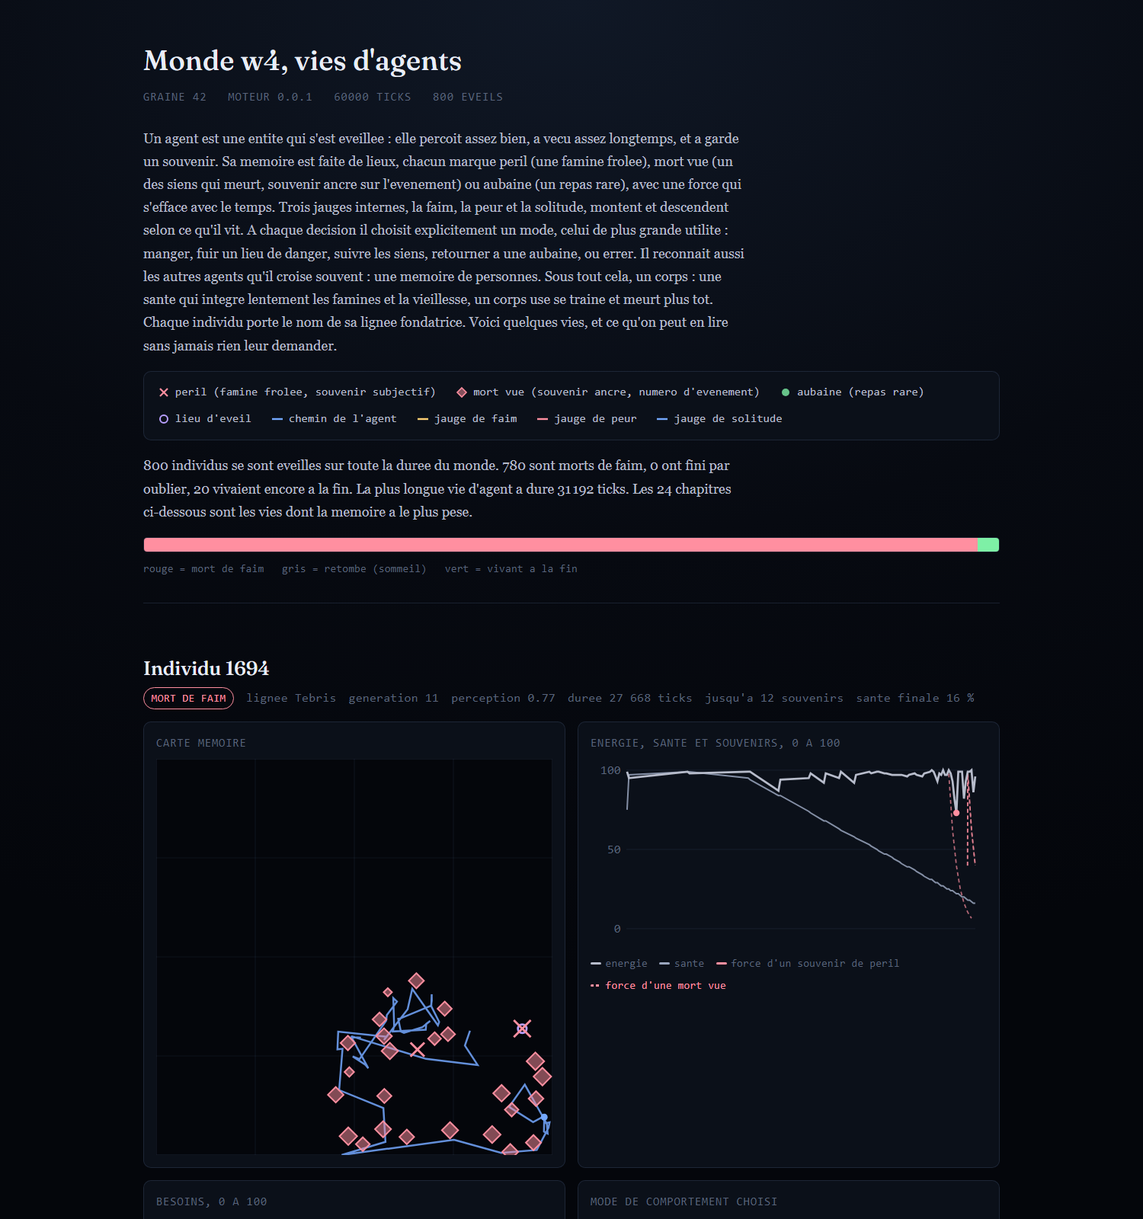
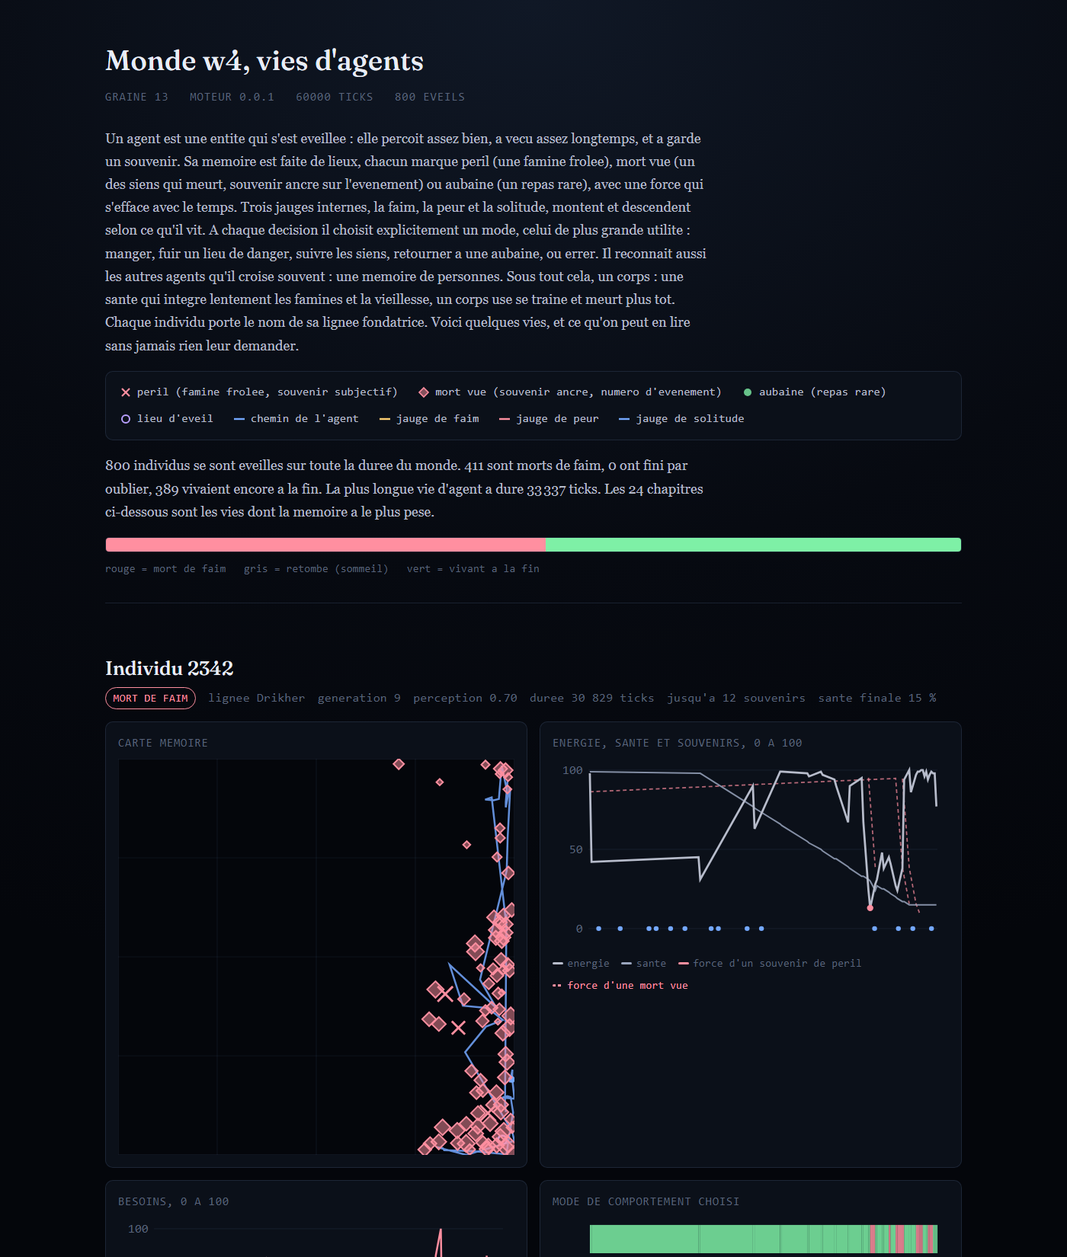
Consolidation : journal en pyramide, templates et captures a jour
Journal en pyramide (serve). events.jsonl grossissait sans fin (~0,7 Mo pour
1000 ticks au plateau saisonnier, des Go par jour sur un direct). Desormais
WorldDir::compact_journal, appele dans la boucle serve, ne garde en detail
complet que les persistence.journal_keep_ticks (120 000) derniers ticks ; au-dela
seuls les evenements de chapitre (EventKind::is_chapter : genese, espece,
extinction de lignee, effondrement, palier, fusion, basculement) roulent dans
events.chronicle.jsonl (append-only, ~170 Ko pour 230 000 ticks). Hysteresis pour
ne pas reecrire le fichier a chaque tour ; jamais compacte au-dela du plus vieil
instantane garde (la reprise en depend). Le moteur ne relit jamais le journal, le
monde reste identique : replay OK, reprise OK apres compaction. journal_keep_ticks
= 0 desactive. Test compact_journal_keeps_window_and_chronicles_the_rest.

Nouveau EventKind::is_chapter (sous-ensemble etroit des evenements saillants) ;
config.persistence.event_log_partition_ticks, inutilise, laisse tel quel.

Templates a jour pour le 10e trait (heat_tol) : series.html (« dix traits »,
courbe et legende « tol. chaleur »), view.html (barre + infobulle), index.html.

Captures docs/images regenerees depuis les mondes v18 (grille 192, saisons) :
stream (le direct en cours, an 28, le graphe de population en dents de scie),
gallery, series, lives, world-cover (w4 graine 13, 13 especes). view-inspect
laissee (demande une interaction).
[…]

diff --git a/crates/genesis-cli/src/series_template.html b/crates/genesis-cli/src/series_template.html
@@ -54,11 +54,12 @@
 
 <div class="headline" id="headline"></div>
 
-<p>Chaque genome a neuf traits, tous dans l'intervalle 0 a 1 : sept de corps (metabolisme,
-vitesse, perception, efficacite, fertilite, longevite, cohesion) et deux de personnalite
-(prudence, curiosite, herites depuis 0.0.3). La selection naturelle est le seul moteur :
-elle vient du bilan d'energie et de la mort differentielle, personne ne la declare.
-Ci-dessous, comment la population a derive sur toute la duree du monde.</p>
+<p>Chaque genome a dix traits, tous dans l'intervalle 0 a 1 : sept de corps (metabolisme,
+vitesse, perception, efficacite, fertilite, longevite, cohesion), deux de personnalite
+(prudence, curiosite, herites depuis 0.0.3) et un d'adaptation thermique (tolerance a la
+chaleur, 0.0.4). La selection naturelle est le seul moteur : elle vient du bilan d'energie et
+de la mort differentielle, personne ne la declare. Ci-dessous, comment la population a derive
+sur toute la duree du monde.</p>
 
 <h2>Les traits dans le temps</h2>
 <figure><svg id="c-traits" class="chart" viewBox="0 0 860 260" role="img" aria-label="moyenne des traits par generation"></svg>
@@ -88,8 +89,8 @@ __COMMON_JS__
 const META = JSON.parse(document.getElementById('ser-meta').textContent);
 const S = JSON.parse(document.getElementById('ser-series').textContent);
 
-const TRAITS = ['metabolisme', 'vitesse', 'perception', 'efficacite', 'fertilite', 'longevite', 'cohesion', 'prudence', 'curiosite'];
-const COL = ['#ff9a5a', '#5ab6ff', '#6ee89a', '#b79cff', '#ffce5a', '#9aa6be', '#4fe8e0', '#ff8fa0', '#8fd0ff'];
+const TRAITS = ['metabolisme', 'vitesse', 'perception', 'efficacite', 'fertilite', 'longevite', 'cohesion', 'prudence', 'curiosite', 'tol. chaleur'];
+const COL = ['#ff9a5a', '#5ab6ff', '#6ee89a', '#b79cff', '#ffce5a', '#9aa6be', '#4fe8e0', '#ff8fa0', '#8fd0ff', '#ffb648'];
 
 // -- Trace un jeu de courbes dans un <svg> deja dimensionne par son viewBox.
 function draw(svgId, opt) {

diff --git a/crates/genesis-cli/src/view_template.html b/crates/genesis-cli/src/view_template.html
@@ -445,6 +445,7 @@ const TRAITS = [
   ['cohesion', "Tendance a s'agreger avec ses proches parents et a former des colonies."],
   ['prudence', "Personnalite heritee. Haut = un agent evite plus fort les lieux ou il a frole la mort."],
   ['curiosite', "Personnalite heritee. Haut = un agent est plus attire par ses souvenirs d'abondance."],
+  ['tol. chaleur', "Adaptation thermique heritee. Bas = optimum metabolique vers le froid, haut = vers le chaud."],
 ];
 
 function set(id, val) { const el = document.getElementById(id); if (el) el.textContent = val; }

diff --git a/crates/genesis-cli/src/index_template.html b/crates/genesis-cli/src/index_template.html
@@ -123,7 +123,7 @@
     </a>
     <a class="door evo" href="series.html">
       <div class="dn"><span class="dot"></span>L'evolution</div>
-      <p>Ce que la selection a deplace : la derive des neuf traits, la distribution qui s'elargit ou se scinde, la population et la diversite.</p>
+      <p>Ce que la selection a deplace : la derive des dix traits, la distribution qui s'elargit ou se scinde, la population et la diversite.</p>
       <div class="go">ouvrir les courbes &rarr;</div>
     </a>
     <a class="door lives" href="lives.html">

diff --git a/crates/genesis-core/src/persist.rs b/crates/genesis-core/src/persist.rs
@@ -145,4 +145,179 @@ impl WorldDir {
         }
         Ok(())
     }
+
+    /// Journal en pyramide (`serve`) : `events.jsonl` ne garde en detail que les evenements
+    /// au tick `>= keep_from`. Les evenements de chapitre (`EventKind::is_chapter`) plus vieux
+    /// sont deverses dans `events.chronicle.jsonl` (append-only, grossit tres lentement), le
+    /// reste est laisse tomber. Le moteur ne relit jamais le journal : le monde reste
+    /// identique.
+    ///
+    /// La compaction ne se declenche que si la plus vieille ligne est anterieure a
+    /// `trigger_below` (hysteresis : on ne reecrit pas 100 Mo a chaque tour de boucle pour
+    /// grignoter quelques centaines de ticks). Bon marche sinon (on ne lit que la premiere
+    /// ligne). Renvoie le nombre de lignes retirees de `events.jsonl`.
+    pub fn compact_journal(&self, keep_from: u64, trigger_below: u64) -> std::io::Result<u64> {
+        use std::io::{BufRead, BufReader};
+
+        // Filtre bon marche : on ne parse l'evenement complet que si la saillance vaut la
+        // peine (les chapitres sont tous a 180+). Le gros du journal est a 2-3.
+        #[derive(Deserialize)]
+        struct Line {
+            tick: u64,
+            #[serde(default)]
+            salience: u8,
+        }
+        const CHAPTER_MIN_SALIENCE: u8 = 180;
+
+        let path = self.root.join("events.jsonl");
+        let Ok(file) = std::fs::File::open(&path) else {
+            return Ok(0);
+        };
+        let mut reader = BufReader::new(file);
+
+        // Coup d'oeil sur la premiere ligne : si elle est assez recente, rien a faire.
+        let mut first = String::new();
+        if reader.read_line(&mut first)? == 0 {
+            return Ok(0);
+        }
+        if let Ok(l) = serde_json::from_str::<Line>(first.trim()) {
+            if l.tick >= trigger_below {
+                return Ok(0);
+            }
+        }
+
+        let tmp = self.root.join("events.jsonl.tmp");
+        let mut keep_w = std::io::BufWriter::new(std::fs::File::create(&tmp)?);
+        let mut chron_w = std::io::BufWriter::new(
+            std::fs::OpenOptions::new()
+                .create(true)
+                .append(true)
+                .open(self.root.join("events.chronicle.jsonl"))?,
+        );
+        let mut dropped = 0u64;
+
+        // La premiere ligne, deja lue.
+        let process = |raw: &str, keep_w: &mut std::io::BufWriter<std::fs::File>,
+                       chron_w: &mut std::io::BufWriter<std::fs::File>,
+                       dropped: &mut u64|
+         -> std::io::Result<()> {
+            let s = raw.trim_end();
+            if s.is_empty() {
+                return Ok(());
+            }
+            let Ok(l) = serde_json::from_str::<Line>(s) else {
+                *dropped += 1;
+                return Ok(());
+            };
+            if l.tick >= keep_from {
+                writeln!(keep_w, "{s}")?;
+                return Ok(());
+            }
+            *dropped += 1;
+            if l.salience >= CHAPTER_MIN_SALIENCE {
+                if let Ok(ev) = serde_json::from_str::<Event>(s) {
+                    if ev.kind.is_chapter() {
+                        writeln!(chron_w, "{s}")?;
+                    }
+                }
+            }
+            Ok(())
+        };
+
+        process(&first, &mut keep_w, &mut chron_w, &mut dropped)?;
+        let mut buf = String::new();
+        loop {
+            buf.clear();
+            if reader.read_line(&mut buf)? == 0 {
+                break;
+            }
+            process(&buf, &mut keep_w, &mut chron_w, &mut dropped)?;
+        }
+
+        keep_w.flush()?;
+        chron_w.flush()?;
+        drop(keep_w);
+        drop(chron_w);
+        std::fs::rename(&tmp, &path)?;
+        Ok(dropped)
+    }
+}
+
+#[cfg(test)]
+mod tests {
+    use super::*;
+    use crate::event::EventKind;
+
+    fn tmp_dir(tag: &str) -> PathBuf {
+        let d = std::env::temp_dir().join(format!(
+            "genesis-persist-{}-{}-{}",
+            tag,
+            std::process::id(),
+            std::time::SystemTime::now()
+                .duration_since(std::time::UNIX_EPOCH)
+                .unwrap()
+                .as_nanos()
+        ));
+        std::fs::create_dir_all(d.join("snapshots")).unwrap();
+        d
+    }
+
+    fn ev(seq: u64, tick: u64, kind: EventKind) -> Event {
+        let mut e = Event::now(tick, kind);
+        e.seq = seq;
+        e
+    }
+
+    #[test]
+    fn compact_journal_keeps_window_and_chronicles_the_rest() {
+        let root = tmp_dir("compact");
+        let wd = WorldDir { root: root.clone() };
+
+        // 0..2000 : un evenement de bruit par tick, plus un evenement de chapitre
+        // (`PopulationMilestone`) et un evenement saillant mais pas de chapitre (`AgentAwoke`)
+        // tous les 500 ticks.
+        let mut batch = Vec::new();
+        for t in 0..2000u64 {
+            batch.push(ev(t * 3, t, EventKind::EntitySpawned { entity: t }));
+            if t % 500 == 0 {
+                batch.push(ev(t * 3 + 1, t, EventKind::PopulationMilestone { level: 100 }));
+                batch.push(ev(t * 3 + 2, t, EventKind::AgentAwoke { entity: t }));
+            }
+        }
+        wd.append_events(&batch).unwrap();
+        let before_lines = std::fs::read_to_string(root.join("events.jsonl")).unwrap().lines().count();
+
+        // Fenetre : garder a partir du tick 1500, ne declencher que sous 1200.
+        let dropped = wd.compact_journal(1500, 1200).unwrap();
+        assert!(dropped > 0, "rien n'a ete compacte");
+
+        let after = std::fs::read_to_string(root.join("events.jsonl")).unwrap();
+        let chron = std::fs::read_to_string(root.join("events.chronicle.jsonl")).unwrap();
+
+        // events.jsonl ne contient plus que des ticks >= 1500.
+        for line in after.lines() {
+            let t: serde_json::Value = serde_json::from_str(line).unwrap();
+            assert!(t["tick"].as_u64().unwrap() >= 1500, "ligne trop vieille gardee : {line}");
+        }
+        // La chronique ne contient que des chapitres anterieurs a la fenetre : les
+        // `PopulationMilestone` des ticks 0/500/1000, pas les `AgentAwoke`, pas le bruit.
+        assert_eq!(chron.lines().count(), 3, "chronique : {}", chron);
+        for line in chron.lines() {
+            let v: serde_json::Value = serde_json::from_str(line).unwrap();
+            assert!(v["tick"].as_u64().unwrap() < 1500);
+            assert!(v["kind"].get("population_milestone").is_some(), "pas un chapitre : {line}");
+        }
+        assert_eq!(
+            after.lines().count() as u64 + dropped,
+            before_lines as u64,
+            "des lignes ont disparu sans etre comptees"
+        );
+
+        // Deuxieme appel : la premiere ligne est deja >= 1200, no-op.
+        assert_eq!(wd.compact_journal(1500, 1200).unwrap(), 0);
+
+        // `journal_keep_ticks = 0` cote appelant : la compaction n'est jamais appelee, rien
+        // ici a tester de plus. On nettoie.
+        let _ = std::fs::remove_dir_all(&root);
+    }
 }

diff --git a/crates/genesis-cli/src/main.rs b/crates/genesis-cli/src/main.rs
@@ -953,6 +953,25 @@ fn cmd_serve(
                 r.sim.notable.drain(0..d);
             }
             r.write_pages(false)?;
+
+            // Journal en pyramide : `events.jsonl` ne garde que la fenetre recente, les
+            // evenements de chapitre plus vieux roulent dans `events.chronicle.jsonl`. Sinon
+            // le journal grossit sans fin sur un direct de plusieurs mois. Hysteresis : on ne
+            // reecrit que lorsque la plus vieille ligne a une demi-fenetre de retard. On ne
+            // compacte jamais au-dela du plus vieil instantane garde : a la reprise, le
+            // journal doit couvrir depuis cet instantane.
+            let jk = r.cfg.persistence.journal_keep_ticks;
+            let snap_span = SNAPSHOTS_KEPT as u64 * r.cfg.persistence.snapshot_interval_ticks + 5000;
+            let keep = jk.max(snap_span);
+            if jk > 0 && r.world.tick > keep + keep / 2 {
+                if let Err(e) = r
+                    .wdir
+                    .compact_journal(r.world.tick - keep, r.world.tick - keep - keep / 2)
+                {
+                    eprintln!("compaction du journal : {e}");
+                }
+            }
+
             last_pages = std::time::Instant::now();
         }
 

diff --git a/crates/genesis-core/src/config.rs b/crates/genesis-core/src/config.rs
@@ -716,6 +716,14 @@ pub struct PersistenceCfg {
     /// Une ligne de serie temporelle de stats (`series.jsonl`) tous les N ticks. Le
     /// materiau du graphe d'evolution genetique (`series.html`).
     pub series_every: u64,
+    /// Journal en pyramide (`serve` seulement) : `events.jsonl` ne garde en detail complet
+    /// que les `journal_keep_ticks` derniers ticks. Au-dela, seuls les evenements de chapitre
+    /// (`EventKind::is_chapter` : genese, espece, extinction de lignee, effondrement, palier,
+    /// fusion, basculement) roulent dans `events.chronicle.jsonl` (append-only, grossit tres
+    /// lentement), le reste est laisse tomber. Le moteur ne relit jamais le journal, le monde
+    /// reste identique ; c'est ce qui permet a un direct de tourner des mois.
+    /// `journal_keep_ticks = 0` desactive la compaction (journal append-only sans fin).
+    pub journal_keep_ticks: u64,
 }
 impl Default for PersistenceCfg {
     fn default() -> Self {
@@ -723,6 +731,7 @@ impl Default for PersistenceCfg {
             snapshot_interval_ticks: 5000,
             event_log_partition_ticks: 100000,
             series_every: 500,
+            journal_keep_ticks: 120_000,
         }
     }
 }

diff --git a/crates/genesis-core/src/event.rs b/crates/genesis-core/src/event.rs
@@ -112,6 +112,23 @@ impl EventKind {
             EventKind::SnapshotTaken { .. } => 0,
         }
     }
+
+    /// Un evenement de chapitre : les grands tournants d'un monde, ceux qu'on garde pour
+    /// toujours dans la chronique meme apres que le journal detaille a ete compacte. C'est un
+    /// sous-ensemble volontairement etroit des evenements saillants : pas les eveils d'agent
+    /// ni les formations de cellule (frequents), seulement ce qui fait l'histoire du monde.
+    pub fn is_chapter(&self) -> bool {
+        matches!(
+            self,
+            EventKind::WorldCreated
+                | EventKind::SpeciesEmerged { .. }
+                | EventKind::LineageExtinct { .. }
+                | EventKind::PopulationCrash { .. }
+                | EventKind::PopulationMilestone { .. }
+                | EventKind::CellsMerged { .. }
+                | EventKind::GenomeShift { .. }
+        )
+    }
 }
 
 #[derive(Debug, Clone, Serialize, Deserialize)]

diff --git a/BIBLE/00_INDEX.md b/BIBLE/00_INDEX.md
@@ -230,7 +230,8 @@ Liste ouverte, tenue à jour au fil du projet (demande utilisateur, 2026-08-31 p
   - **La bibliotheque des mondes : `worlds/index.html` (2026-09-02).** Une grille de tous les mondes d'un dossier : nom, graine, lignee dominante (ou « monde eteint »), mini-courbe de population, annees, generations, individus eveilles, diversite. Commande `genesis gallery [dossier]`, reconstruite aussi a chaque `run`. `gallery_html.rs` + `gallery_template.html`. `SeriesRow` gagne `dominant_lineage`. Lu depuis les fichiers deja ecrits, aucun recalcul de monde. C'est la forme du 0.1.0.
   - **Un monde qui ne s'arrete pas : `genesis continue` et `genesis serve` (2026-09-02).** `continue <monde> --ticks N` reprend depuis le dernier instantane et rejoue N ticks ; le journal et la serie temporelle continuent (verite du monde), la scene et les biographies sont refaites sur le segment recent (fenetre glissante de 500 frames). `serve <monde> [--rate ticks/s] [--port P] [--for T] [--step N]` : boucle continue qui avance par petits pas paces (environ une seconde de temps-monde par tour, defaut `--rate 30`, `0` = a fond), reecrit `live.json` / `scene.json` a chaque pas et les pages HTML lourdes au plus toutes les `--pages-every` secondes (defaut 15). `Sim::run` gagne `checkpoint: bool` (pas d'instantane a chaque pas en `serve`) ; `write_world_pages` ecrit un instantane au tick courant pour que meta, journal et instantane restent coherents (ce que `replay` compare). Verifie : `run(60k) + serve(--for 8k)` puis `replay` deterministe OK. `meta.json` gagne `agents_awoke_total` (cumule a travers les reprises). `lives.jsonl` borne (800 vies les plus longues), `notable.jsonl` reduit aux grands tournants (la chronique : genese, espece, extinction de lignee, effondrement, palier). A la reprise, le journal est tronque au dernier instantane : un arret brutal ne cree pas de doublons. Refactor : la boucle de tick est un `Sim`, la generation des pages un `write_world_pages`, le chargement pour reprise un `Resume` ; `AgentLife` / `LifeBeat` passent des `&'static str` a des enums (aller-retour JSON). Verifie : `run(40k)` et `run(25k)+continue(15k)` donnent un instantane final et un `events.jsonl` byte-identiques ; `run(10k)+serve(5 tranches)` rejoue deterministe OK. Aucun changement de schema moteur.
   - **L'overlay du direct 24/24 : `stream.html` (2026-09-02).** Un tableau de bord 1920x1080 pour une source navigateur OBS, servi par `genesis serve --port P` (`http://localhost:P/stream.html`). Une vue publique des donnees que Genesis produit deja, pas un systeme parallele : `live.rs` ecrit `live.json` (petit, relu toutes les 3 s), `scene.json` (derniere image du monde), `records.json` (records persistes et battus au fil de la vie : creux de population apres l'installation a 500, plus longue vie d'agent et sa lignee, especes emergees, diversite record...). `http_serve.rs` : serveur de fichiers minimal (GET, un thread par requete, anti remontee de chemin, `no-store` sur les JSON volatils). L'overlay : horloge de l'age du monde, panneau d'identite (stade dit sans le farder, aucun LLM, aucun evenement scripte, graine deterministe) et etat du monde (stable / en croissance / en declin / eteint, d'apres la tendance recente), pouls du monde (cinq jauges qui racontent : remplissage contre capacite, ressources restantes, diversite rapportee au record, part de naissances, surexploitation), quatre groupes de stats, fil qui garde toute la chronique en bas, histoire de la population avec sparklines diversite et generations, panneau des records avec banniere quand un record tombe, cartes d'evenements riches par type de tournant ; scene animee qui suit le centre de masse (cadrage cover). `stream_html.rs` embarque `live.json` / `scene.json` en repli pour un rendu correct en `file://`. Identite bioluminescente, Fraunces + IBM Plex Mono. Aucun changement moteur. Suit le brief `Stream_Twitch/` (qui sort du depot : notes de travail). Pas de faux evenement, pas de chiffre decoratif.
-  - **`serve` tenable des mois sans surveillance (2026-09-02).** Trois fuites bornees pour un monde qui ne s'arrete jamais : les biographies terminees sont oubliees au fil de l'eau (au-dela de 200, pas seulement a la reprise ; le compte d'eveils passe par `Sim.awoke_count`), `series` est plafonnee a 4000 lignes (le quart le plus ancien decime), on ne garde que les 12 instantanes les plus recents (`WorldDir::prune_snapshots`). `events.jsonl` ne recoit plus les `ReplicationFailed` (~90 % du volume au plateau, deja dans `repro_blocked_materials`) : journal ~20x plus leger, monde identique (1 vs 8 threads byte-identique, `replay` OK). **Renaissance** : `serve --restart [--max-years Y]` fait repartir une nouvelle graine au meme endroit quand le monde meurt ou vieillit ; `records.json` se transmet de monde en monde (l'histoire sportive de la graine). `birth_world` factorise la genese. Reste : rotation du journal (pyramide temporelle) pour l'echelle des annees.
+  - **`serve` tenable des mois sans surveillance (2026-09-02).** Trois fuites bornees pour un monde qui ne s'arrete jamais : les biographies terminees sont oubliees au fil de l'eau (au-dela de 200, pas seulement a la reprise ; le compte d'eveils passe par `Sim.awoke_count`), `series` est plafonnee a 4000 lignes (le quart le plus ancien decime), on ne garde que les 12 instantanes les plus recents (`WorldDir::prune_snapshots`). `events.jsonl` ne recoit plus les `ReplicationFailed` (~90 % du volume au plateau, deja dans `repro_blocked_materials`) : journal ~20x plus leger, monde identique (1 vs 8 threads byte-identique, `replay` OK). **Renaissance** : `serve --restart [--max-years Y]` fait repartir une nouvelle graine au meme endroit quand le monde meurt ou vieillit ; `records.json` se transmet de monde en monde (l'histoire sportive de la graine). `birth_world` factorise la genese.
+  - **Journal en pyramide (2026-09-03).** `events.jsonl` grossissait sans fin (~0,7 Mo par 1000 ticks au plateau saisonnier, soit des gigaoctets par jour sur un direct). Desormais, dans la boucle `serve`, `WorldDir::compact_journal` ne garde en detail complet que les `persistence.journal_keep_ticks` (120 000, ~14 annees-monde) derniers ticks ; au-dela, seuls les evenements de chapitre (`EventKind::is_chapter` : genese, espece, extinction de lignee, effondrement, palier, fusion, basculement) roulent dans `events.chronicle.jsonl` (append-only, ~170 Ko pour 230 000 ticks, soit quelques Mo par jour). Hysteresis : on ne reecrit le fichier que lorsque la plus vieille ligne a une demi-fenetre de retard, jamais au-dela du plus vieil instantane garde (la reprise en depend). Le moteur ne relit jamais le journal, le monde reste identique ; `replay` OK, reprise OK apres compaction. `journal_keep_ticks = 0` desactive. Test `compact_journal_keeps_window_and_chronicles_the_rest`.
 
 - **Grille par defaut 128 -> 192 (2026-09-02).** Le monde de reference epinglait sa population a ~2293 (capacite de charge de la matiere) en ligne parfaitement plate depuis la naissance : generations qui montent, diversite qui tient (~0,10), mais aucun boom, aucun krach, aucune expansion. Rien de spectaculaire a regarder a l'an 68. La grille passe a 192x192, capacite ~5160 : plus d'espace, plus de vie a l'ecran, un support pour une future structure spatiale. `make_fertility` depend de la taille de grille, donc chaque graine donne un autre relief : **la graine 3 (ancien monde de reference) s'eteint en 192x192, la graine 1 (le stream actuel) plafonne a ~5150 vers 100k ticks, saine.** Cout : ~2,25x d'entites, le `serve` a `--rate 45` garde largement le pas (le chemin `run` fait ~670 ticks/s mono-thread a 5000 entites). Determinisme byte-identique 1 vs 8 threads (graine 1). `worlds/w1`/`w3`/`w4` regeneres. **Tentative ecartee : elargir `comfort_frac` (0,06 -> 0,20 / 0,35) pour faire respirer la population. Sans effet : amplitude ~50 sur 5000, la matiere se recycle instantanement, l'equilibre reste un rasoir. La vraie oscillation demande un environnement mobile : les saisons, faites juste apres (ci-dessous).**
 

diff --git a/BIBLE/03_DATA_MODEL.md b/BIBLE/03_DATA_MODEL.md
@@ -508,8 +508,17 @@ maturity_frac        = 0.05       # fraction de l'espérance de vie avant la 1re
 [persistence]
 snapshot_interval_ticks      = 5000
 event_log_partition_ticks    = 100000
-series_every                 = 500    # une ligne de série temporelle de stats tous les N ticks
+series_every                 = 500     # une ligne de série temporelle de stats tous les N ticks
+journal_keep_ticks           = 120000  # serve : fenêtre de détail complet d'events.jsonl (pyramide)
 ```
+
+**Journal en pyramide (serve).** `events.jsonl` est purement un artefact d'audit : rien ne le
+relit à l'exécution, `replay` rejoue depuis la graine. Sur un direct de plusieurs mois il
+grossirait sans fin. `WorldDir::compact_journal` (appelé dans la boucle `serve`) ne garde que
+les `journal_keep_ticks` derniers ticks en détail complet ; au-delà, seuls les événements de
+chapitre (`EventKind::is_chapter`) sont déversés dans `events.chronicle.jsonl` (append-only,
+grossit très lentement). Hysteresis pour ne pas réécrire le fichier à chaque tour ; jamais
+compacté au-delà du plus vieil instantané gardé (la reprise en dépend).
 
 ## Tests d'invariants à écrire avant le code (tranchée 13)
 

diff --git a/README.md b/README.md
@@ -117,7 +117,7 @@ et le garde au centre pendant qu'il vit ; la molette zoome ou l'on veut.
 
 ![Suivre un individu dans la scene](docs/images/view-inspect.png)
 
-**L'evolution**, `series.html`, trace la derive des neuf traits du genome sur toute la duree
+**L'evolution**, `series.html`, trace la derive des dix traits du genome sur toute la duree
 du monde. Pas seulement la moyenne : la distribution complete, du dixieme au quatre-vingt-
 dixieme centile, parce que c'est une bande qui se scinde qui signale une speciation. La
 selection naturelle est le seul moteur ici, personne ne la declare.
